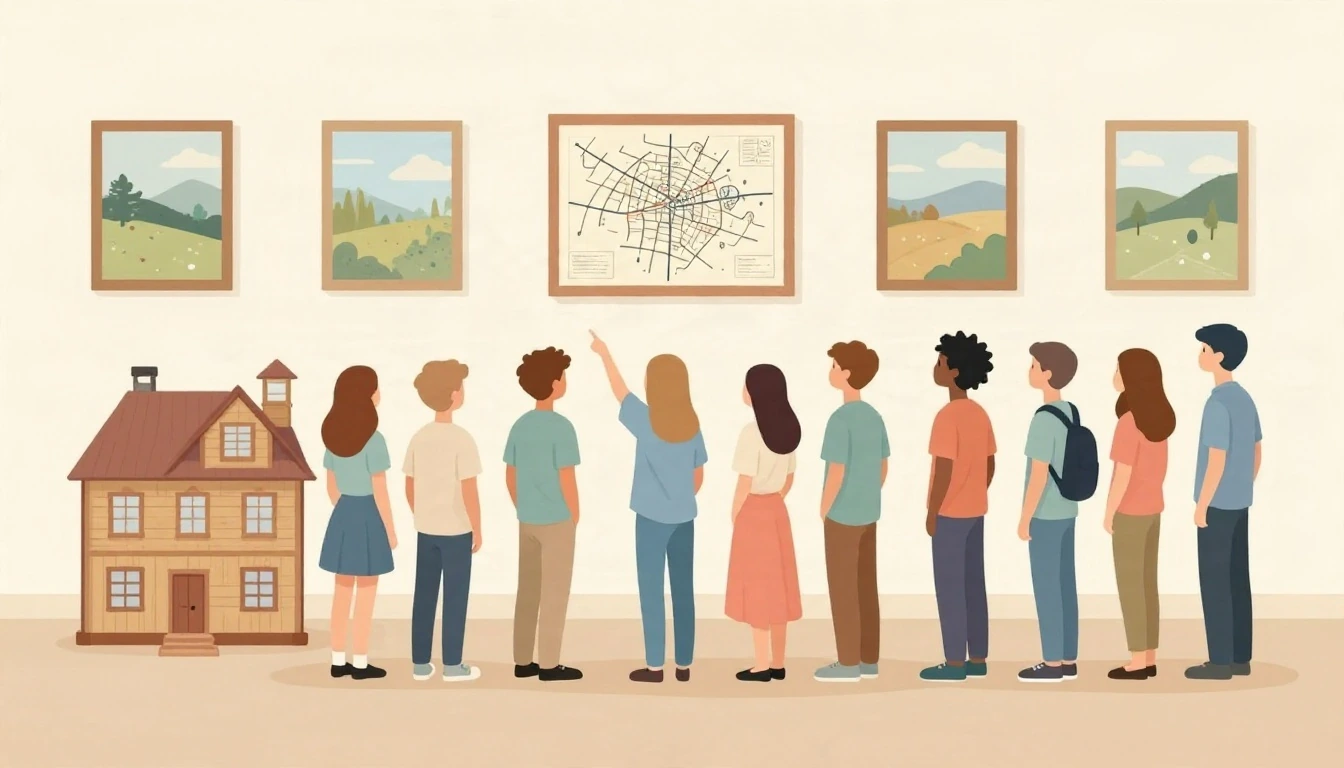
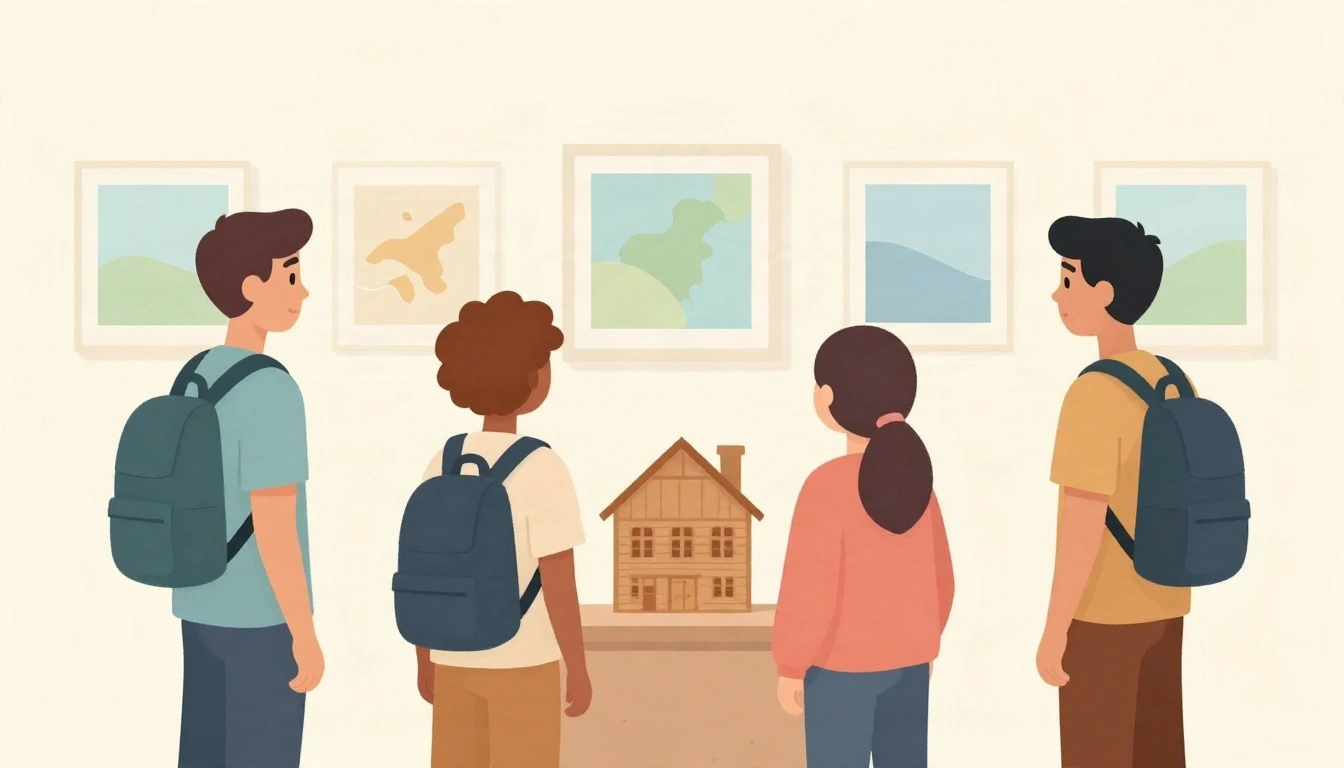
Brief 013: every figure named in its page, chart and picture fixes
All 22 diagrams and charts are now mentioned in their topic text, saying
where they are. The life-expectancy chart shows its source, licence and
read date and labels 2025; the transition chart has short phase labels.
The type 2 diabetes sentence follows its source again. Four illustrations
redone. Recorded engine issue E-13 (placement only at H2 level).
Judge: accept after a final recheck.

diff --git a/content/topics/10-terveyden-eriarvoisuus-ja-tulevaisuus.md b/content/topics/10-terveyden-eriarvoisuus-ja-tulevaisuus.md
@@ -73,13 +73,13 @@ last_reviewed: 2026-11-22
 
 ### Mistä erot syntyvät?
 
-WHO:n tietosivun mukaan korkeammin koulutetuilla on väestötasolla parempi terveys ja pidempi elinikä, ja eliniänodote voi vaihdella asuinalueen mukaan maiden sisälläkin suuresti ([WHO 6.5.2025](https://www.who.int/news-room/fact-sheets/detail/social-determinants-of-health)). **Taustatekijä** on ryhmän elämässä taustalla oleva asia, esimerkiksi koulutus tai toimeentulo. **Välittävä tekijä** on se, jonka kautta taustatekijän vaikutus kulkee terveyteen, esimerkiksi etäisyys palveluihin. Tekijät myös kasaantuvat. Ero ryhmien välillä ei kerro yksittäisestä ihmisestä: ryhmän sisällä on paljon vaihtelua.
+WHO:n tietosivun mukaan korkeammin koulutetuilla on väestötasolla parempi terveys ja pidempi elinikä, ja eliniänodote voi vaihdella asuinalueen mukaan maiden sisälläkin suuresti ([WHO 6.5.2025](https://www.who.int/news-room/fact-sheets/detail/social-determinants-of-health)). **Taustatekijä** on ryhmän elämässä taustalla oleva asia, esimerkiksi koulutus tai toimeentulo. **Välittävä tekijä** on se, jonka kautta taustatekijän vaikutus kulkee terveyteen, esimerkiksi etäisyys palveluihin. Tekijät kasaantuvat. Ero ryhmien välillä ei kerro yksittäisestä ihmisestä: ryhmän sisällä on paljon vaihtelua.
 
 ### Miten kuvaajaa luetaan?
 
-- **Ryhmittely:** tulokset esitetään usein sukupuolen, iän, koulutuksen ja alueen mukaan, esimerkiksi THL:n Terve Suomi -tutkimuksessa ([THL, luettu 22.11.2026](https://thl.fi/tervesuomi/tulokset)). Katso ensin, mitä ryhmiä on ja mitä mitataan.
+- **Ryhmittely:** tulokset esitetään usein sukupuolen, iän, koulutuksen ja alueen mukaan, esimerkiksi THL:n Terve Suomi -tutkimuksessa ([THL, luettu 22.11.2026](https://thl.fi/tervesuomi/tulokset)). Katso ensin, mitkä ryhmät ja mitä mitataan.
 - **Ikävakiointi:** ikä vaikuttaa moniin sairauksiin. Ikävakioitu luku poistaa ikärakenteen eron laskennasta, joten alueita voi verrata, vaikka toisella olisi enemmän vanhoja asukkaita. Jos kartta on ikävakioitu, ikä ei selitä eroa.
-- **Elinajanodote** kertoo, kuinka kauan keskimäärin eletään ([Tilastokeskus](https://stat.fi/fi/tilasto/kuol)). **Menetetyt elinvuodet** kuvaavat, kuinka paljon elinaikaa menetetään ennenaikaisen kuoleman vuoksi.
+- **Elinajanodote** kertoo, kuinka kauan keskimäärin eletään (kaavio tämän osion lopussa; [Tilastokeskus](https://stat.fi/fi/tilasto/kuol)). **Menetetyt elinvuodet** kuvaavat, kuinka paljon elinaikaa menetetään ennenaikaisen kuoleman vuoksi.
 - **Raja:** yhteys ei ole syy. Kuvaaja näyttää eron, mutta syy vaatii selityksen.
 
 ### Miksi erot kannattaa kaventaa?
@@ -320,7 +320,7 @@ Pisteytys on sivuston oma harjoitusohje, ei ylioppilastutkintolautakunnan.
 
 **a)** Kaventaminen on perusteltua oikeudenmukaisuuden vuoksi: kaikilla on yhtäläinen arvo, eikä alue saisi ratkaista mahdollisuuksia terveyteen. Kustannukset ovat toinen peruste: pitkäaikaissairaudet kuormittavat palveluja ja työelämää. Kolmas on työllisyys ja toimintakyky: terveys vaikuttaa siihen, pääseekö ihminen töihin. Lisäksi luottamus ja yhteiskuntarauha kärsivät, jos alueet jakautuvat.
 
-**b)** *Terveyttä edistävä yhteiskuntapolitiikka:* kaupunki ottaa terveysvaikutusten arvioinnin mukaan kaavoitukseen ja liikenteeseen. Kaupunki ja valtuusto toimivat. Päätökset huomioivat alueen B tarpeet. *Terveyttä tukevat ympäristöt:* alueelle B rakennetaan turvalliset kävely- ja pyöräreitit ja tiheämpi joukkoliikenne. Kaupunki toimii, ja liikkuminen työhön ja palveluihin helpottuu. *Yhteisön toiminta:* asukkaat ja järjestöt suunnittelevat alueen toimintaa yhdessä kaupungin kanssa, mikä vahvistaa yhteyksiä ja osallisuutta. *Henkilökohtaiset taidot:* koulu ja aikuisopisto tarjoavat työelämä- ja terveyslukutaitoa. Se vahvistaa tietoja ja taitoja. *Terveyspalvelujen suuntaaminen uudelleen:* lähipalvelu ja liikkuva palvelu alueelle B tuovat ehkäisevät palvelut lähelle. Hyvinvointialue ja kaupunki toimivat yhdessä.
+**b)** Mallikuva on Mallivastausten lopussa. *Terveyttä edistävä yhteiskuntapolitiikka:* kaupunki ottaa terveysvaikutusten arvioinnin mukaan kaavoitukseen ja liikenteeseen. Kaupunki ja valtuusto toimivat. Päätökset huomioivat alueen B tarpeet. *Terveyttä tukevat ympäristöt:* alueelle B rakennetaan turvalliset kävely- ja pyöräreitit ja tiheämpi joukkoliikenne. Kaupunki toimii, ja liikkuminen työhön ja palveluihin helpottuu. *Yhteisön toiminta:* asukkaat ja järjestöt suunnittelevat alueen toimintaa yhdessä kaupungin kanssa, mikä vahvistaa yhteyksiä ja osallisuutta. *Henkilökohtaiset taidot:* koulu ja aikuisopisto tarjoavat työelämä- ja terveyslukutaitoa. Se vahvistaa tietoja ja taitoja. *Terveyspalvelujen suuntaaminen uudelleen:* lähipalvelu ja liikkuva palvelu alueelle B tuovat ehkäisevät palvelut lähelle. Hyvinvointialue ja kaupunki toimivat yhdessä.
 
 **c)** Eniten ihmisiä tavoittaa yhteiskuntapolitiikka ja ympäristöt, koska ne koskevat kaikkia alueen asukkaita. Helpoimmin toteutuu henkilökohtaisten taitojen tarjonta, koska se ei vaadi rakentamista. Reitit ja joukkoliikenne ovat kalliita mutta vaikuttavat pitkään. Tulevaisuuden haaste on ilmastonmuutos: esimerkiksi helle koskee eniten niitä, joilla on vähän palveluja ja viherympäristöä, joten suunnitelmaan kuuluu myös varjoisia ja viileitä paikkoja alueelle B. Tulvat ja muut äärisääilmiöt voivat myös kuormittaa mielenterveyttä, joten yhteisön tuki ja palvelujen saatavuus kuuluvat suunnitelmaan. Suunnitelman kannattaa yhdistää eri alueita, koska ne tukevat toisiaan.
 

diff --git a/docs/review/2026-11-22-brief-013-judgement.md b/docs/review/2026-11-22-brief-013-judgement.md
@@ -1,0 +1,86 @@
+# Brief 013 judgement: figure mentions, small fixes, no review banner
+
+Judge: Opus, outside the authors. Date 2026-11-22. Ruled from the files only, after building it myself.
+
+## Verdict: reject (three small open items remain)
+
+The banner is gone, every figure is mentioned, the charts are fixed and the build is clean. Three of the final open
+items are still in the working tree unchanged. Each one is a short fix, but each breaks a Done-when line or a
+standing picture rule, so I cannot accept yet.
+
+## What I checked
+
+| Check | Result |
+|---|---|
+| Build to my own scratch folder | 0 errors, 0 warnings |
+| Topic files at most 500 lines | Pass (max 500: 10-riippuvuudet, 10-terveyden-eriarvoisuus) |
+| Opiskelijalle at most 600 words | Pass by the engine. My rough count (table markup included) gives 610 for te3-07 and at most 594 elsewhere |
+| Figure mentions in `git diff -- content/topics` | 21 new mentions in 16 files across TE1, TE2 and TE3 (at least 8 needed). hypnogrammi already had one |
+| Banner removed (D-008) | Pass. `templates/base.html` deleted in ca70ed1. No built page (73 HTML) has `review-banner` or "vielä tarkastanut". README, CLAUDE.md and the contract addendum record it |
+| te3-03 diabetes sentence, "näytön vahvuuden mukaan" | Pass (text checker verified against Terveyskirjasto dlk00011) |
+| dg-elinajanodote | Pass. Subtitle "Lähde: Tilastokeskus, CC BY 4.0, / luettu 22.11.2026", 2025 labelled |
+| dg-epidemiologinen-siirtyma | Pass. Labels 1 Nälkä, 2 Rutot, 3 Sairaus, 4 Ikä, 5 Erot. Width 347, scales to 343 |
+| K3 placements | Pass by the fallback. The engine places only at H2, so te3-02 K3 a) and te3-10 K3 b) say "Mallikuva on Mallivastausten lopussa" |
+| il-te2-07, il-te3-01 | Pass (I opened both, and the sha256 matches the newest line in data/images.run.yaml) |
+| il-te2-05 | Fail. Opened it: the crumpled paper scrap is still on the floor at the bottom right |
+| il-te2-06 | Fail. Opened it: the file is unchanged since 09:01. The green-shirt girl and the white-shirt boy look sad or worried |
+| Local paths, keys, e-mails | None found in content/topics or data/charts |
+| Nothing committed | Pass. The changes are uncommitted in the working tree |
+
+## Rulings on the final open items
+
+1. **te3-07 dg-eettiset-nakokulmat mention (TE3): upheld, not done.** Line 77 still reads "eivät aina johda samaan
+   tulokseen (kaavio tämän osion lopussa)". Move the mention to the table-introducing sentence on line 63
+   ("Pikakertaus kuvitteellisella tapauksella: ...", for example "Kaavio tämän osion lopussa kokoaa taulukon.").
+   Restore line 77 to its original wording. The net word count stays the same.
+2. **il-te2-05 floor litter (pictures): upheld, not done.** There is a paper or wrapper scrap at about x 1030-1130,
+   y 680-710. Brief 013 says "no paper cup" and the picture should not show litter. Regenerate it, or remove the
+   scrap with one redo.
+3. **il-te2-06 worried faces (pictures): upheld, not done.** The standing rule bans worried faces, and this is a
+   hopeful theme. Redo it with calm or smiling faces and keep the composition.
+
+## Done-when lines
+
+- Every diagram and chart is named in its page's text: **met**, but one mention is misplaced (item 1).
+- The named small fixes are in: **not met.** The text and chart fixes are in. il-te2-05 and il-te2-06 are not.
+- The banner is gone from every page: **met.**
+- The build is clean: **met.**
+- The judge accepts: **not yet.**
+
+## Minors (do not block)
+
+- Mentions say "osion lopussa", but most sit in an H3 that is not the last one. "Opiskelijalle-osion lopussa" would be
+  clearer.
+- Two pages use the same phrase twice for two figures at one place: te1-01 (taustatekijat, ottawa) and te2-02
+  (tutkimusprosessi, riski). Naming each figure would help.
+- te3-01: the dg-selitysmallit mention would fit better next to the model table.
+- Word-budget trims shifted some meaning a little. te3-03 "tiettynä hetkenä tai jaksona" became "tiettynä aikana".
+  "usein" and "myös" were dropped in TE1.
+- te1-01 has back-to-back parentheses "(kaavio osion lopussa) ([WHO](...))". te2-02 has "avoimia, vain linkitettyjä".
+- il-te2-07: the pedestrian also wears a helmet, and the adult at the door is very small.
+
+## Remaining
+
+TE3: move one mention (te3-07). Pictures: one redo each for il-te2-05 and il-te2-06, about $0.01 each, and log the
+sha256 in data/images.run.yaml. Then rebuild, and a short re-judge on these three items only.
+
+## For the operator
+
+1. The banner is gone from every page, and the build is clean (0 errors, 0 warnings).
+2. All 22 diagrams and charts are now mentioned in the text, and both charts are fixed.
+3. Three small things are still open: one misplaced mention, a paper scrap in one picture, and sad faces in another.
+4. Nothing is committed. After those three fixes it can be accepted.
+
+## Final recheck
+
+Recheck by Opus, outside the authors, on the three open items only. Both pictures opened at full size.
+
+| Item | Result |
+|---|---|
+| te3-07 mention | Pass. On the "Pikakertaus kuvitteellisella tapauksella..." sentence (line 63); line 77 equals HEAD |
+| il-te2-05 | Pass. Floor bare; no paper, cup or litter; no text; health rules met |
+| il-te2-06 | Pass. Two smiling faces, one calm and focused; no text; health rules met |
+| sha256 and prompts | Pass. Both match the newest images.run.yaml entry; prompt = manifest prompt + style line |
+| Build to scratch folder | 0 errors, 0 warnings |
+
+Verdict after final recheck: accept

diff --git a/content/topics/02-tutkimustieto.md b/content/topics/02-tutkimustieto.md
@@ -65,7 +65,7 @@ last_reviewed: 2026-11-21
 
 ### Tutkimus etenee vaiheittain
 
-Vaiheita on kuusi. (1) **Tutkimuskysymys** tarkennetaan mitattavaksi: ei "onko koulu hyvä?" vaan "kuinka moni kokee kuuluvansa kouluyhteisöön?" (2) **Asetelma ja suunnitelma:** valitaan tapa vastata sekä otos ja mittari. (3) **Aineiston keruu:** tutkittavilta pyydetään suostumus, ja vastaukset käsitellään nimettöminä. (4) **Analyysi** tiivistää aineiston tuloksiksi. (5) **Raportointi** kertoo tulokset ja rajoitukset, jotta muut voivat arvioida ne. (6) **Vertaisarviointi ja toisto:** asiantuntijat lukevat työn, ja muut voivat toistaa tutkimuksen.
+Vaiheita on kuusi (kaavio osion lopussa). (1) **Tutkimuskysymys** tarkennetaan mitattavaksi: ei "onko koulu hyvä?" vaan "kuinka moni kokee kuuluvansa kouluyhteisöön?" (2) **Asetelma ja suunnitelma:** valitaan tapa vastata sekä otos ja mittari. (3) **Aineiston keruu:** tutkittavilta pyydetään suostumus, ja vastaukset käsitellään nimettöminä. (4) **Analyysi** tiivistää aineiston tuloksiksi. (5) **Raportointi** kertoo tulokset ja rajoitukset, jotta muut voivat arvioida ne. (6) **Vertaisarviointi ja toisto:** asiantuntijat lukevat työn, ja muut voivat toistaa tutkimuksen.
 
 ### Tutkimustyypit ja käsitteet
 
@@ -90,7 +90,7 @@ Kaikkia ei voi tutkia, joten tutkitaan **otos**, jonka halutaan kuvaavan **perus
 
 ### Riski
 
-**Riski** on todennäköisyys, että jokin ei-toivottu tapahtuma toteutuu. **Altiste** on tekijä, jolle ihminen joutuu alttiiksi; joutuminen on **altistumista**. **Riskitekijä** lisää tapahtuman todennäköisyyttä. **Absoluuttinen riski** kertoo, kuinka monelle sadasta tapahtuma sattuu. **Suhteellinen riski** vertaa altistuneiden ja altistumattomien riskiä: kaksi sadasta ja neljä sadasta tarkoittaa kaksinkertaista suhteellista riskiä, vaikka ero on kaksi sadasta. **Subjektiivinen riski** on ihmisen oma arvio, ja uutiset ja optimismivinouma vääristävät sitä.
+**Riski** on todennäköisyys, että jokin ei-toivottu tapahtuma toteutuu. **Altiste** on tekijä, jolle ihminen joutuu alttiiksi; joutuminen on **altistumista**. **Riskitekijä** lisää tapahtuman todennäköisyyttä. **Absoluuttinen riski** kertoo, kuinka monelle sadasta tapahtuma sattuu. **Suhteellinen riski** vertaa altistuneiden ja altistumattomien riskiä: kaksi sadasta ja neljä sadasta tarkoittaa kaksinkertaista suhteellista riskiä, vaikka ero on kaksi sadasta (kaavio osion lopussa). **Subjektiivinen riski** on ihmisen oma arvio, ja uutiset ja optimismivinouma vääristävät sitä.
 
 ### Kyselytieto ja rekisteritieto
 
@@ -102,7 +102,7 @@ Kaikkia ei voi tutkia, joten tutkitaan **otos**, jonka halutaan kuvaavan **perus
 
 ### Miten vertailet lähteitä?
 
-Vertaa vähintään kahta lähdettä samoilla kysymyksillä: kuka tekee, miksi, mihin tieto perustuu, kuinka vanha se on ja kertooko lähde epävarmuudesta. Hyvä lähde nimeää asetelman ja otoksen. Apuna ovat [Asiantuntijalähteen arviointi -video](https://aoe.fi/#/materiaali/3006) ja sen kaavio, avoimia mutta täällä vain linkitettyjä.
+Vertaa vähintään kahta lähdettä samoilla kysymyksillä: kuka tekee, miksi, mihin tieto perustuu, kuinka vanha se on ja kertooko lähde epävarmuudesta. Hyvä lähde nimeää asetelman ja otoksen. Apuna ovat [Asiantuntijalähteen arviointi -video](https://aoe.fi/#/materiaali/3006) ja sen kaavio, avoimia, vain linkitettyjä.
 
 ## Tehtävät
 
@@ -368,7 +368,7 @@ Akselit: vaaka talvi 1–3, pysty kaatumisia sataa kulkijaa kohti, 0–6
 Viiva A: 4 – 5 – 3    Viiva B: 2 – 2 – 1    Selite: A, B
 ```
 
-Kuviosta näkyy, että viiva A on joka talvi viivan B yläpuolella.
+Mallikuva on tämän osion lopussa. Kuviosta näkyy, että viiva A on joka talvi viivan B yläpuolella.
 
 **b)** *Teksti 1* on suhteellinen riski: se vertaa reittejä (kolmantena talvena 3 ja 1) mutta ei kerro riskin suuruutta. Absoluuttinen ero on kolme sadasta miinus yksi sadasta eli kaksi sadasta, ja kahtena ensimmäisenä talvena suhde oli pienempi. *Teksti 2* on absoluuttinen riski: se kertoo, monelleko sadasta kaatuminen sattui, mutta vain yhdeltä talvelta. *Teksti 3* on subjektiivinen riski: se on Kimin oma arvio. Optimismivinouma ja yleistäminen yhdestä kokemuksesta tekevät siitä luotettavan vain Kimin omalle kokemukselle. Taulukon mukaan reitillä A kaatui joka talvi kolmesta viiteen sadasta.
 

diff --git a/content/topics/03-tarttumattomat-taudit.md b/content/topics/03-tarttumattomat-taudit.md
@@ -73,22 +73,22 @@ last_reviewed: 2026-11-21
 
 ### Ilmaantuvuus ja esiintyvyys
 
-**Ilmaantuvuus** kertoo, montako uutta tapausta syntyy väestössä tietyn ajan kuluessa ([Terveyskirjasto](https://www.terveyskirjasto.fi/ltt01290)). **Esiintyvyys** kertoo, kuinka suurella osalla väestöstä tauti on tiettynä hetkenä tai jaksona.
+**Ilmaantuvuus** kertoo, montako uutta tapausta syntyy väestössä tietyn ajan kuluessa ([Terveyskirjasto](https://www.terveyskirjasto.fi/ltt01290)). **Esiintyvyys** kertoo, kuinka suurella osalla väestöstä tauti on tiettynä aikana.
 
 Alueita vertaillaan suhteuttamalla tapaukset väestöön, esimerkiksi sataatuhatta asukasta kohti. **Ikävakioitu luku** poistaa väestön ikärakenteen vaikutuksen.
 
 ### Riskitekijä ei ole syy
 
-**Riskitekijä** lisää sairastumisen todennäköisyyttä, mutta ei määrää sitä. Ilman riskitekijöitä voi sairastua, ja moni riskitekijöistä huolimatta ei. **Suojaava tekijä** pienentää todennäköisyyttä: esimerkiksi liikunta (ks. osteoporoosi alla). WHO luettelee käyttäytymiseen liittyviksi riskitekijöiksi tupakan, epäterveellisen ruokavalion, haitallisen alkoholinkäytön ja liian vähäisen liikunnan. Terveys ei kuitenkaan näy painosta.
+**Riskitekijä** lisää sairastumisen todennäköisyyttä, mutta ei määrää sitä. Ilman riskitekijöitä voi sairastua, ja moni riskitekijöistä huolimatta ei. **Suojaava tekijä** pienentää todennäköisyyttä: esimerkiksi liikunta (ks. osteoporoosi alla). WHO luettelee käyttäytymisriskeiksi tupakan, epäterveellisen ruokavalion, haitallisen alkoholinkäytön ja liian vähäisen liikunnan. Terveys ei kuitenkaan näy painosta.
 
-Elintavat ovat aina osa oloja: työ, asuinympäristö, toimeentulo ja perimä vaikuttavat siihen, mitä voi valita. Siksi sairastunutta ei syyllistetä.
+Elintavat ovat osa oloja: työ, asuinympäristö, toimeentulo ja perimä vaikuttavat valintoihin. Siksi sairastunutta ei syyllistetä.
 
 ### Esimerkkejä taudeista
 
 - **Tyypin 1 diabetes** on autoimmuunisairaus. Elimistön puolustus tuhoaa insuliinia tuottavia soluja.
-- **Tyypin 2 diabeteksessa** insuliinin vaikutus on heikentynyt. Se todetaan yleensä aikuisena. Se voi olla pitkään oireeton ([Terveyskirjasto](https://www.terveyskirjasto.fi/dlk00011)).
-- **Keuhkoahtaumatauti** (COPD) on krooninen keuhkosairaus. Tärkein riskitekijä on tupakointi. Muita ovat pölyinen työ, passiivinen tupakointi ja harvinainen perinnöllinen puutos ([Terveyskirjasto](https://www.terveyskirjasto.fi/khp00012)).
-- **Syöpä** on joukko sairauksia. Ilmaantuvuutta seuraa [Syöpärekisteri](https://cancerregistry.fi/statistics/). Karsinogeenit eli syöpää aiheuttavat aineet luokitellaan näytön mukaan ([TE2 aihe 10](../../te2/10-riippuvuudet/)).
+- **Tyypin 2 diabeteksessa** insuliinin vaikutus on heikentynyt. Se todetaan yleensä aikuisena. Se voi kehittyä pitkään ilman selviä oireita ([Terveyskirjasto](https://www.terveyskirjasto.fi/dlk00011)).
+- **Keuhkoahtaumatauti** (COPD) on krooninen keuhkosairaus. Tärkein riskitekijä on tupakointi, muita pölyinen työ, passiivinen tupakointi ja harvinainen perinnöllinen puutos ([Terveyskirjasto](https://www.terveyskirjasto.fi/khp00012)).
+- **Syöpä** on joukko sairauksia. Ilmaantuvuutta seuraa [Syöpärekisteri](https://cancerregistry.fi/statistics/). Karsinogeenit eli syöpää aiheuttavat aineet luokitellaan näytön vahvuuden mukaan ([TE2 aihe 10](../../te2/10-riippuvuudet/)).
 
 ### Muistisairaudet, metabolinen oireyhtymä, luusto, nivelet ja toimintakyky
 
@@ -99,6 +99,8 @@ Elintavat ovat aina osa oloja: työ, asuinympäristö, toimeentulo ja perimä va
 - **Toimintakyvyä mitataan** itsearviokysymyksillä ja testeillä: puristusvoima, tuolilta nousu, kävelynopeus ([TOIMIA-suositus S029](https://www.julkari.fi/bitstream/handle/10024/140538/TOIMIA_S029_Fyysisen_toimintakyvyn_mittaaminen_ja_arviointi_vaestotutkimuksissa.pdf?sequence=5)).
 
 ### Ehkäisyn tasot
+
+Kaavio osion lopussa kokoaa tasot.
 
 - **Ensisijainen ehkäisy** pyrkii estämään sairauden syntymisen: terveyden edistäminen, rokotukset ja riskien vähentäminen.
 - **Toissijainen ehkäisy** löytää sairauden tai sen esiasteen varhain, esimerkiksi **seulonnalla** eli tutkimuksella, joka tehdään oireettomille ([aihe 08](../../te3/08-hedelmoityshoidot-abortti-seulonnat-geenit/)).

diff --git a/content/topics/01-terveys-voimavarana.md b/content/topics/01-terveys-voimavarana.md
@@ -101,14 +101,14 @@ Voimavara auttaa jaksamaan, toimimaan ja selviytymään vaikeuksista. **Sisäisi
 
 ### Terveyden taustatekijät
 
-Terveyden taustatekijät eli terveyttä määrittävät tekijät vaikuttavat terveyteen. Ne jaetaan usein neljälle tasolle:
+Terveyden taustatekijät eli terveyttä määrittävät tekijät vaikuttavat terveyteen. Ne jaetaan neljälle tasolle:
 
 - **yksilölliset tekijät:** perimä, ikä, elintavat (myös alkoholi ja nikotiini, ks. [TE2](../../opetussuunnitelma/)), tiedot ja taidot
 - **yhteisölliset tekijät:** perhe, ystävät, koulu, harrastukset ja työpaikka
 - **yhteiskunnalliset tekijät:** koulutus, toimeentulo, asuminen, lait ja palvelut
 - **globaalit tekijät:** ilmasto, ympäristö, maailmantalous, kriisit ja tartuntataudit
 
-Tasoja kuvataan sisäkkäisinä kehinä (Dahlgrenin ja Whiteheadin kehämalli): keskellä on yksilö ja uloimpana yhteiskunnan ja ympäristön olot. Sama tekijä voi suojata tai kuormittaa. Ystävät voivat antaa tukea tai luoda painetta.
+Tasoja kuvataan sisäkkäisinä kehinä (Dahlgrenin ja Whiteheadin kehämalli, kaavio osion lopussa): keskellä yksilö, uloimpana yhteiskunnan ja ympäristön olot. Sama tekijä voi suojata tai kuormittaa. Ystävät voivat antaa tukea tai luoda painetta.
 
 Monet tekijät eivät ole ihmisen valittavissa. Elintavat ovat valintoja, mutta valinnat syntyvät oloissa: mitä lähikaupassa myydään, paljonko on aikaa ja rahaa ja millaista tukea saa. Siksi ihmisryhmien välillä on **terveyseroja** eli terveyden eriarvoisuutta. Ajankohtaista tietoa löydät [THL:n Nuorten hyvinvointi -sivulta](https://thl.fi/data-ja-tilastot/lapset-ja-nuoret/nuorten-hyvinvointi).
 
@@ -122,9 +122,9 @@ Terveyden edistäminen vahvistaa voimavaroja ja terveyden edellytyksiä ennen on
 
 ### Ottawan asiakirjan viisi toiminta-aluetta
 
-WHO:n Ottawan asiakirjassa (1986) on viisi toiminta-aluetta ([WHO](https://www.who.int/publications/i/item/ottawa-charter-for-health-promotion), [teksti](https://archive.org/download/WHOHPRHEP95.1/WHO_HPR_HEP_95.1_text.pdf)):
+Ottawan asiakirjassa (WHO 1986) on viisi toiminta-aluetta (kaavio osion lopussa) ([WHO](https://www.who.int/publications/i/item/ottawa-charter-for-health-promotion), [teksti](https://archive.org/download/WHOHPRHEP95.1/WHO_HPR_HEP_95.1_text.pdf)):
 
-- **Terveyttä edistävä yhteiskuntapolitiikka:** päättäjät arvioivat päätösten terveysvaikutukset, esimerkiksi laeissa ja veroissa.
+- **Terveyttä edistävä yhteiskuntapolitiikka:** päättäjät arvioivat päätösten terveysvaikutukset, esimerkiksi laeissa.
 - **Terveyttä tukevat ympäristöt:** koulu, työ ja asuinalue tukevat terveyttä.
 - **Yhteisön toiminta:** asukkaat ja järjestöt toimivat yhdessä.
 - **Henkilökohtaiset taidot:** ihminen osaa hakea tietoa ja toimia terveytensä hyväksi.
@@ -366,7 +366,7 @@ Pisteytys on sivuston oma harjoitusohje, ei ylioppilastutkintolautakunnan.
 
 **Aikaa kuluu:** noin 70 minuuttia.
 
-**Näin etenet:**
+**Näin etenet** (kaavio osion lopussa):
 
 1. **Lue** osio Opiskelijalle (8 min).
 2. **Tee** Tehtävä 1 (20 min) ja Tehtävä 2 (10 min). Tehtävä 3 on lisätehtävä (15 min).

diff --git a/content/topics/08-mielenterveys.md b/content/topics/08-mielenterveys.md
@@ -80,19 +80,19 @@ Mielenterveys on eri asia kuin mielenterveyden häiriö. Häiriöt ovat sairauks
 
 ### Suojaavat tekijät
 
-Suojaava tekijä vahvistaa mielenterveyttä ja auttaa selviämään kuormituksesta. Tekijät jaetaan kolmelle tasolle:
+Suojaava tekijä vahvistaa mielenterveyttä ja auttaa selviämään kuormituksesta. Tekijät jaetaan kolmelle tasolle (kaavio osion lopussa):
 
 - **yksilölliset tekijät:** tunteiden säätely, ongelmanratkaisutaidot, myönteinen käsitys itsestä, kyky pyytää apua ja merkitykselliseksi koettu tekeminen
 - **yhteisölliset tekijät:** turvalliset ihmissuhteet, kuulumisen kokemus, aikuinen jolle voi puhua, hyväksyvä ilmapiiri koulussa ja harrastuksissa
 - **yhteiskunnalliset tekijät:** opiskeluhuolto ja muut matalan kynnyksen palvelut, riittävä toimeentulo, turvallinen asuinympäristö, kiusaamisen ja syrjinnän ehkäisy sekä koulutus
 
-Suojaavat tekijät auttavat kestämään vaikeudet ja toipumaan niistä. Tätä kykyä kutsutaan psyykkiseksi palautumiskyvyksi eli resilienssiksi. Se rakentuu koko elämän ajan.
+Suojaavat tekijät auttavat kestämään vaikeudet ja toipumaan niistä. Sitä kutsutaan psyykkiseksi palautumiskyvyksi eli resilienssiksi. Se rakentuu koko elämän ajan.
 
 ### Miten suojaus toimii?
 
-Suojaava tekijä vaikuttaa ketjun kautta. Esimerkiksi turvallinen ystävyys auttaa puhumaan huolista. Kun huolista voi puhua, ne eivät kasva yksin mielessä. Silloin kuormitus pienenee ja jaksaminen paranee.
+Suojaava tekijä vaikuttaa ketjun kautta. Esimerkiksi turvallinen ystävyys auttaa puhumaan huolista. Kun huolista voi puhua, ne eivät kasva yksin mielessä. Kuormitus pienenee ja jaksaminen paranee.
 
-Kuormittavat tekijät voivat kasautua, ja silloin ne painavat enemmän kuin yksittäin. Sama tekijä voi myös suojata tai kuormittaa. Ystäväporukka voi antaa tukea, mutta myös paineita.
+Kuormittavat tekijät voivat kasautua, ja ne painavat enemmän kuin yksittäin. Sama tekijä voi myös suojata tai kuormittaa. Ystäväporukka voi antaa tukea, mutta myös paineita.
 
 ### Leimautuminen ja avun hakeminen
 

diff --git a/content/topics/02-elintapamallit.md b/content/topics/02-elintapamallit.md
@@ -117,7 +117,7 @@ Huomaa sana *koettu*. Malli kuvaa ihmisen omaa arviota, ei sitä, mikä on totta
 
 ### Muutosvaihemalli
 
-Muutosvaihemallia kutsutaan myös transteoreettiseksi malliksi. Se kuvaa muutosta prosessina, jossa on vaiheita:
+Muutosvaihemallia kutsutaan transteoreettiseksi malliksi. Se kuvaa muutosta prosessina, jossa on vaiheita (kaavio osion lopussa):
 
 1. **Esiharkinta:** muutosta ei vielä harkita. Asiaa ei pidetä ongelmana, tai hyödyt tuntuvat pieniltä ja haitat suurilta. Tuki: tieto ja keskustelu ilman painostusta.
 2. **Harkinta:** hyödyt ja haitat punnitaan, ja ihminen on usein ristiriitainen. Minäpystyvyys on vielä heikko. Tuki: apu punnita hyötyjä ja esteitä.
@@ -125,7 +125,7 @@ Muutosvaihemallia kutsutaan myös transteoreettiseksi malliksi. Se kuvaa muutost
 4. **Toiminta:** uusi tapa on käytössä. Hyödyt painavat jo enemmän kuin haitat. Tuki: esteiden poisto ja kannustus.
 5. **Ylläpito:** uutta tapaa pidetään yllä, kunnes se tuntuu tavalliselta. Tuki: kannustus ja valmius takapakkiin.
 
-**Takapakki** eli retkahdus kuuluu tavallisesti prosessiin. Se ei ole epäonnistuminen vaan tilaisuus oppia, mikä tilanne tai este sen aiheutti ([Mielenterveystalo](https://www.mielenterveystalo.fi/fi/omahoito/sosiaalisen-median-kayton-vahentamisen-omahoito-ohjelma/miten-edeta-kohti-muutosta)). Moni kiertää vaiheita useammin kuin kerran, ja minäpystyvyys kasvaa onnistumisten myötä. Siksi tuki on erilaista eri vaiheessa, ja sama viesti ei sovi kaikille.
+**Takapakki** eli retkahdus kuuluu tavallisesti prosessiin. Se ei ole epäonnistuminen vaan tilaisuus oppia, mikä tilanne tai este sen aiheutti ([Mielenterveystalo](https://www.mielenterveystalo.fi/fi/omahoito/sosiaalisen-median-kayton-vahentamisen-omahoito-ohjelma/miten-edeta-kohti-muutosta)). Moni kiertää vaiheita useammin kuin kerran, ja minäpystyvyys kasvaa onnistumisten myötä. Siksi tuki vaihtelee vaiheen mukaan, eikä sama viesti sovi kaikille.
 
 ### Mallien vahvuudet ja rajat
 

diff --git a/content/topics/04-tartuntataudit-ja-rokotukset.md b/content/topics/04-tartuntataudit-ja-rokotukset.md
@@ -97,7 +97,7 @@ last_reviewed: 2026-11-21
 
 ### Miten tartuntatauti leviää?
 
-Mikrobin pääsy elimistöön ei vielä tarkoita sairautta: mikrobin pitää voittaa elimistön puolustus. Siihen vaikuttavat mikrobimäärä, vastustuskyky ja mikrobin kyky aiheuttaa tautia ([Terveyskirjasto](https://www.terveyskirjasto.fi/dlk00569)). **Tartuntaketju** on lähde → tartuntatie → vastaanottaja; ehkäisy katkaisee sen jostain kohdasta.
+Mikrobin pääsy elimistöön ei vielä tarkoita sairautta: mikrobin pitää voittaa elimistön puolustus. Siihen vaikuttavat mikrobimäärä, vastustuskyky ja mikrobin kyky aiheuttaa tautia ([Terveyskirjasto](https://www.terveyskirjasto.fi/dlk00569)). **Tartuntaketju** on lähde → tartuntatie → vastaanottaja; ehkäisy katkaisee sen jostain kohdasta (kaavio tämän osion lopussa).
 
 **Tartuntatiet** ovat kosketus (usein kädet), ilma, suu (ruoka ja juoma) sekä veri. Sukupuoliteitse tarttuvat esimerkiksi HIV ja klamydia, lisää [TE1:ssä](../../te1/06-seksuaaliterveys/). **Pandemia** on maantieteellisesti laaja epidemia (Terveyskirjasto). **Epidemia** tarkoittaa, että sairaustapauksia on tietyssä väestössä ja tiettynä aikana odotettua enemmän (Lääkärilehti). Eläimestä ihmiseen tarttuva on **zoonoosi** ([Ruokavirasto](https://www.ruokavirasto.fi/zoonoosikeskus/zoonoosit/)). Kaikki taudit eivät tartu: **autoimmuunisairaudessa** puolustus hyökkää omia kudoksia vastaan ([Terveyskirjasto](https://www.terveyskirjasto.fi/dlk00010)).
 

diff --git a/docs/diary/2026-11-22-figure-mentions.md b/docs/diary/2026-11-22-figure-mentions.md
@@ -1,0 +1,26 @@
+# Brief 013: figure mentions, small fixes, no review banner
+
+**Date:** 2026-11-22 **IDs:** brief 013, D-008
+
+## What happened
+
+The operator removed the review banner (D-008). The site template override existed only for it, so it was deleted and
+the engine's template applies again. Three fixers named every one of the 22 diagrams and charts in its page's text with
+a short "kaavio tämän osion lopussa" phrase, trading weaker words where a section sat at the 600-word limit. The
+life-expectancy chart now shows its source, licence and read date and labels 2025; the transition chart has short
+phase labels; the type 2 diabetes sentence follows its source again. Four illustrations were redone; the judge
+rejected two of them and one misplaced mention, which the producer fixed and a recheck ruled on.
+
+## Traps
+
+- **The engine places a figure at the end of its whole section,** so a figure meant for one model answer lands after
+  the last one. The mention says where it is; finer placement is an engine gap.
+- **A mention can sit on the wrong sentence.** The ethics diagram illustrates the wallet table, not the sentence about
+  conflicting viewpoints.
+
+## Heuristic
+
+Put a figure's mention on the sentence whose content the figure draws, not on the nearest related sentence.
+
+**Seed:** Should the engine accept a subsection as a picture's placement, so figures can sit beside the model answer
+they illustrate (E-13)?

diff --git a/content/topics/09-stressi-ja-kriisit.md b/content/topics/09-stressi-ja-kriisit.md
@@ -93,9 +93,9 @@ Vaikutus kulkee kolmea reittiä. **Hormonaalinen reitti:** stressihormonit valmi
 
 ### Miten kuormitus kasautuu?
 
-Stressi syntyy usein siitä, miten ihminen arvioi vaatimukset ja omat voimavaransa. Jos vaatimukset tuntuvat suuremmilta kuin voimavarat, hälytystila käynnistyy.
+Stressi syntyy siitä, miten ihminen arvioi vaatimukset ja omat voimavaransa. Jos vaatimukset tuntuvat suuremmilta kuin voimavarat, hälytystila käynnistyy.
 
-Kuormitus etenee ketjuna: vaatimukset, arvio, stressireaktio ja sen jälkeen palautuminen tai kuormituksen jatkuminen. Jos palautumista ei tule, väsymys kasvaa, ja keskittyminen ja mieliala heikkenevät. Nämä ovat tavallisia reaktioita, ja niihin on apua.
+Kuormitus etenee ketjuna (kaavio osion lopussa): vaatimukset, arvio, stressireaktio, sitten palautuminen tai kuormituksen jatkuminen. Jos palautumista ei tule, väsymys kasvaa, ja keskittyminen ja mieliala heikkenevät. Nämä ovat tavallisia reaktioita, joihin on apua.
 
 ### Kriisi
 

diff --git a/content/topics/07-eettisen-analyysin-nakokulmat.md b/content/topics/07-eettisen-analyysin-nakokulmat.md
@@ -60,7 +60,7 @@ last_reviewed: 2026-11-22
 
 Eettisen analyysin näkökulmat opit jo TE1:ssä, kun pohdit seksuaalioikeuksia ([TE1: Seksuaalioikeudet](../../te1/07-seksuaalioikeudet/)). TE3:ssa niitä ei opeteta uudestaan vaan käytetään terveydenhuollon kysymyksissä: mitä ne tarkoittavat, kun päätöksen tekee ammattilainen, organisaatio tai yhteiskunta, ja kenen näkökulmasta kysymys on ylipäätään esitetty.
 
-Pikakertaus kuvitteellisella tapauksella: Kim löytää kadulta lompakon, jossa on rahaa ja henkilökortti. Kim miettii, palauttaako sen. Syvennys-sarake näyttää, mitä näkökulma tarkoittaa terveydenhuollossa.
+Pikakertaus kuvitteellisella tapauksella: Kim löytää kadulta lompakon, jossa on rahaa ja henkilökortti. Kim miettii, palauttaako sen (kaavio tämän osion lopussa). Syvennys-sarake näyttää, mitä näkökulma tarkoittaa terveydenhuollossa.
 
 | Näkökulma | Kysymys | Lompakkotapaus | Terveydenhuollon syvennys |
 |---|---|---|---|

diff --git a/content/topics/08-tyohyvinvointi.md b/content/topics/08-tyohyvinvointi.md
@@ -91,7 +91,7 @@ Vielä 1950-luvulla maatalous oli Suomen pääelinkeino, ja suurin osa tiloista 
 
 ### Työkykytalo
 
-**Työkykytalo** on Työterveyslaitoksen käyttämä kuva työkyvystä. Siinä on neljä kerrosta alhaalta ylös: terveys ja toimintakyky, osaaminen, arvot, asenteet ja motivaatio sekä johtaminen, työyhteisö ja työolot. Perhe, lähiyhteisö ja yhteiskunnan arvot ja lait vaikuttavat taloon ulkopuolelta. Kuva muistuttaa, että työkyky syntyy ihmisen ja työn yhteisvaikutuksesta.
+**Työkykytalo** on Työterveyslaitoksen käyttämä kuva työkyvystä. Siinä on neljä kerrosta alhaalta ylös (kaavio tämän osion lopussa): terveys ja toimintakyky, osaaminen, arvot, asenteet ja motivaatio sekä johtaminen, työyhteisö ja työolot. Perhe, lähiyhteisö ja yhteiskunnan arvot ja lait vaikuttavat taloon ulkopuolelta. Kuva muistuttaa, että työkyky syntyy ihmisen ja työn yhteisvaikutuksesta.
 
 ### Työhyvinvoinnin tukeminen ja kyselyn lukeminen
 
